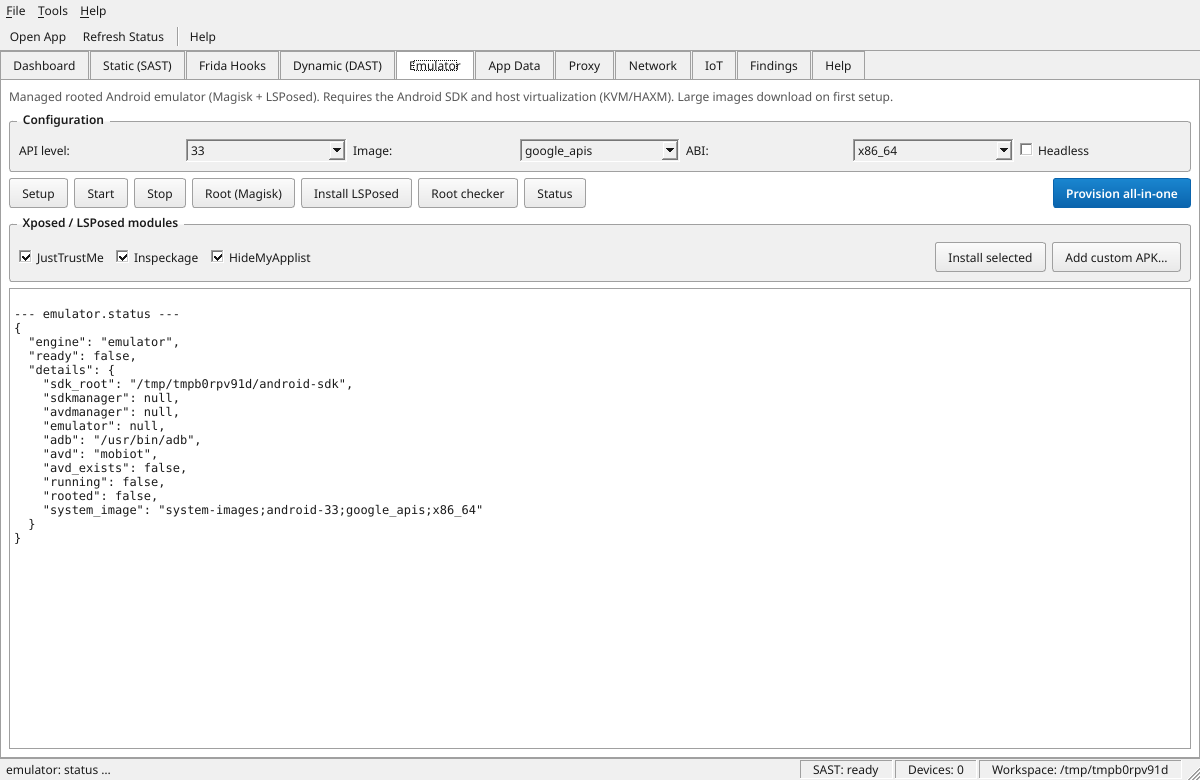
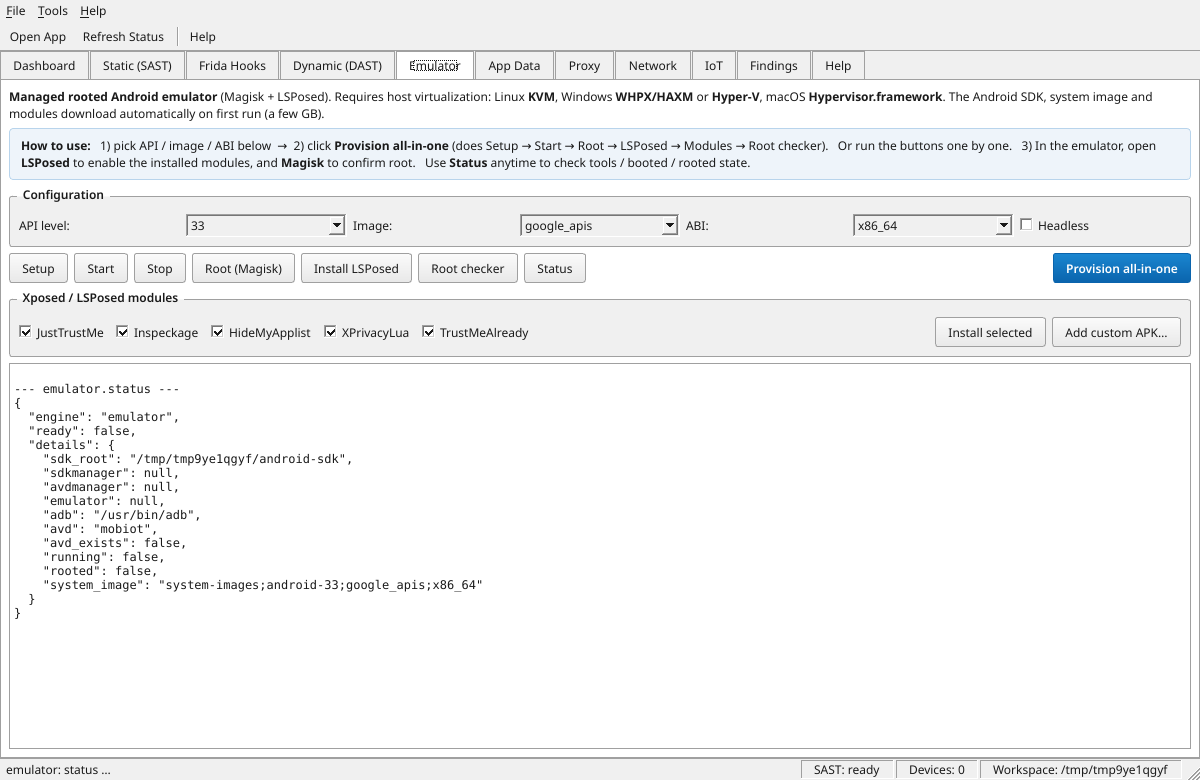
docs(gui): in-app emulator flow guide on the Emulator and Help tabs

diff --git a/src/mobiot/gui/emulator_view.py b/src/mobiot/gui/emulator_view.py
@@ -10,6 +10,7 @@ from __future__ import annotations
 import json
 from typing import Any
 
+from PyQt6.QtCore import Qt
 from PyQt6.QtGui import QFont
 from PyQt6.QtWidgets import (
     QCheckBox,
@@ -41,12 +42,29 @@ class EmulatorView(QWidget):
         lay.setContentsMargins(8, 8, 8, 8)
 
         note = QLabel(
-            "Managed rooted Android emulator (Magisk + LSPosed). Requires the Android SDK "
-            "and host virtualization (KVM/HAXM). Large images download on first setup."
+            "<b>Managed rooted Android emulator</b> (Magisk + LSPosed). "
+            "Requires host virtualization: Linux <b>KVM</b>, Windows <b>WHPX/HAXM</b> "
+            "or <b>Hyper-V</b>, macOS <b>Hypervisor.framework</b>. The Android SDK, "
+            "system image and modules download automatically on first run (a few GB)."
         )
+        note.setTextFormat(Qt.TextFormat.RichText)
         note.setWordWrap(True)
-        note.setStyleSheet("color:#555;")
         lay.addWidget(note)
+
+        steps = QLabel(
+            "<b>How to use:</b> &nbsp; 1) pick API / image / ABI below &nbsp;→&nbsp; "
+            "2) click <b>Provision all-in-one</b> (does Setup → Start → Root → LSPosed → "
+            "Modules → Root checker). &nbsp; Or run the buttons one by one. &nbsp; "
+            "3) In the emulator, open <b>LSPosed</b> to enable the installed modules, and "
+            "<b>Magisk</b> to confirm root. &nbsp; Use <b>Status</b> anytime to check "
+            "tools / booted / rooted state."
+        )
+        steps.setTextFormat(Qt.TextFormat.RichText)
+        steps.setWordWrap(True)
+        steps.setStyleSheet(
+            "background:#eef4fa; border:1px solid #b8d4ec; border-radius:4px; padding:8px;"
+        )
+        lay.addWidget(steps)
 
         cfg = QGroupBox("Configuration")
         grid = QGridLayout(cfg)

diff --git a/src/mobiot/gui/help_view.py b/src/mobiot/gui/help_view.py
@@ -62,6 +62,29 @@ this machine:</p>
   <tr><td>Workspace</td><td>Where reports, captures, certificates and logs are stored.</td></tr>
 </table>
 
+<h2>Rooted emulator &mdash; step by step</h2>
+<p>The <b>Emulator</b> tab provisions and drives a rooted Android emulator so you can
+run the target app and observe its behaviour. It needs host virtualization
+(Linux <b>KVM</b>, Windows <b>WHPX/HAXM</b> or <b>Hyper-V</b>, macOS
+<b>Hypervisor.framework</b>). The Android SDK, system image and modules download
+automatically on first run (a few GB).</p>
+<ol>
+  <li>Open the <b>Emulator</b> tab and choose the <b>API level</b>, <b>image</b> and <b>ABI</b>
+      (x86_64 is fastest under virtualization).</li>
+  <li>Click <b>Provision all-in-one</b> &mdash; this runs, in order: <b>Setup</b> (SDK +
+      system image + AVD), <b>Start</b> (boot), <b>Root</b> (Magisk), <b>Install LSPosed</b>,
+      <b>Install modules</b> and <b>Root checker</b>. You can also run each button
+      individually.</li>
+  <li>When it finishes, open <b>LSPosed</b> inside the emulator to enable the installed
+      modules, and <b>Magisk</b> to confirm root.</li>
+  <li>Use <b>Status</b> at any time to see the tool paths and whether the emulator is
+      booted and rooted. Tick modules (JustTrustMe, Inspeckage, HideMyApplist, ...) or add
+      your own APK before installing.</li>
+</ol>
+<p>Once the emulator is up, the other tabs work against it automatically: analyze in
+<b>Static</b>, hook in <b>Frida Hooks</b> / <b>Dynamic</b>, grab databases in <b>App
+Data</b>, and collect results in <b>Findings</b>.</p>
+
 <h2>MCP server &mdash; how it is set up</h2>
 <p>mobiot ships a Model Context Protocol (MCP) server that exposes <b>every</b>
 engine action as a tool, so an AI client (for example Claude) can drive the whole
